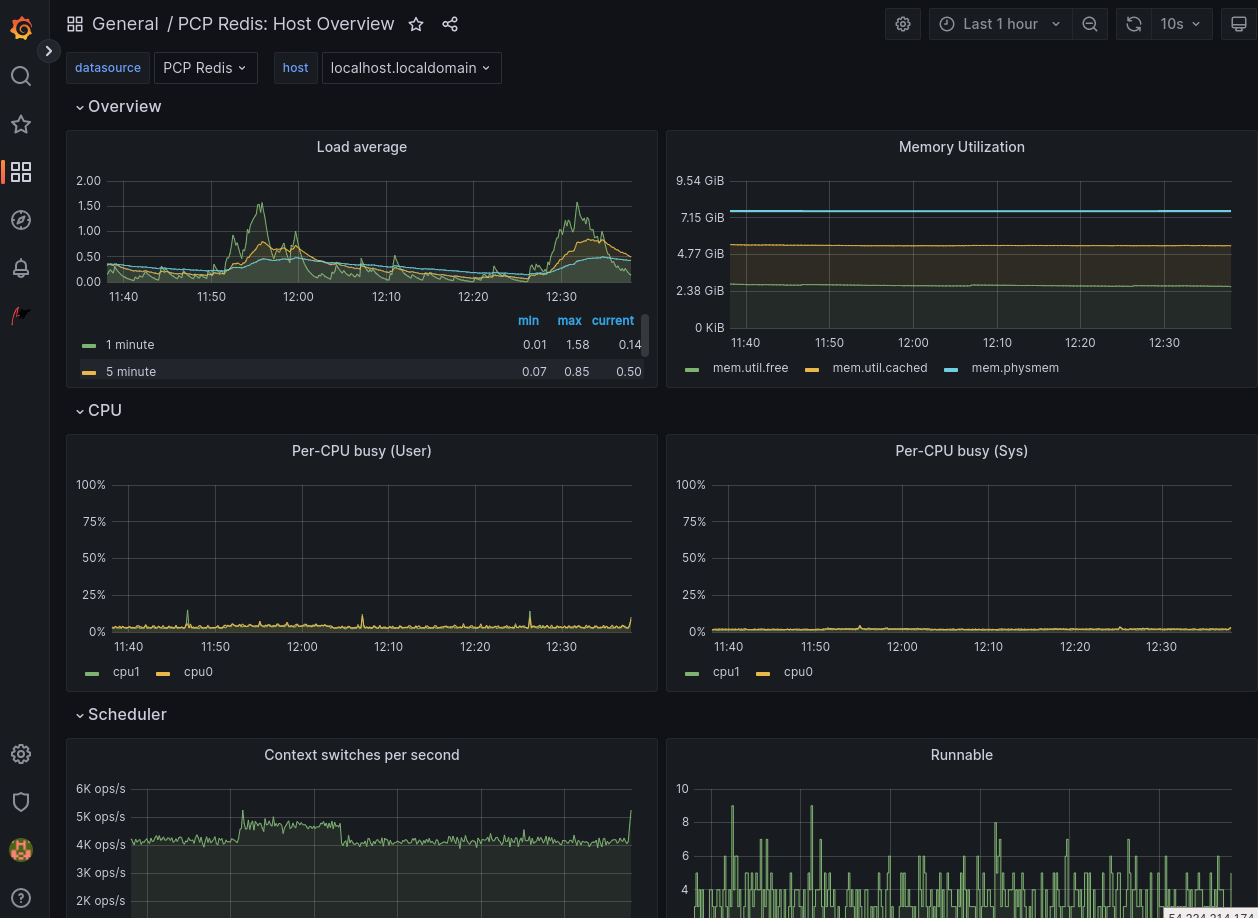
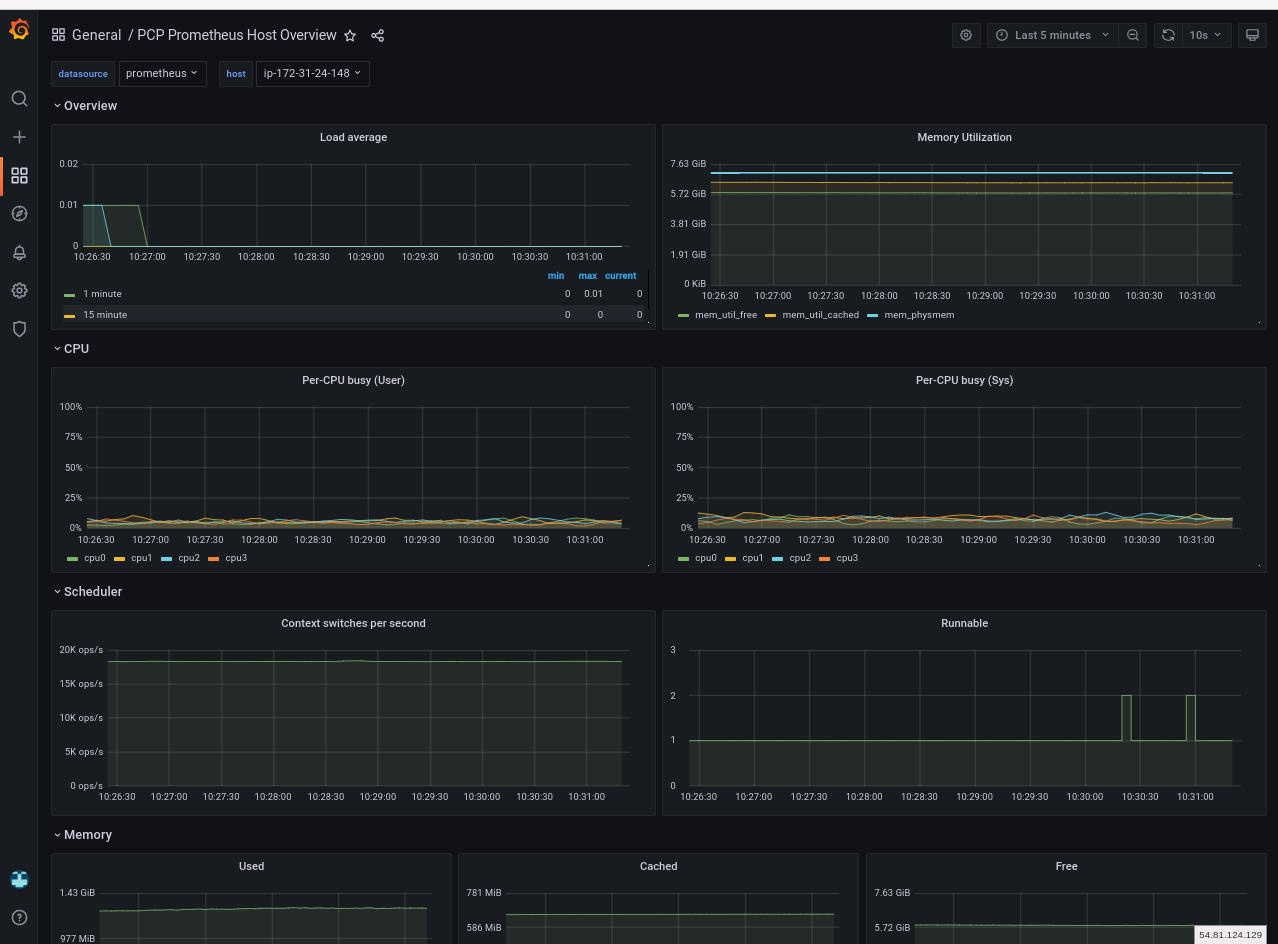
update pcp docs

diff --git a/PCP_edge_ocp/README.md b/PCP_edge_ocp/README.md
@@ -1,0 +1,54 @@
+## Setting up Performance Co-Pilot in RHEL Device Edge
+
+### Screenshots
+
+Data from RHEL Device Edge and [Performance Co-Pilot](https://pcp.io/) (PCP)
+
+![PCP Prometheus: Host Overview Dashboard](../images/PCP.png)
+
+
+### Performance Co-Pilot in RHEL Device Edge
+
+To launch a RHEL edge machine [this blog](https://cloud.redhat.com/blog/meet-red-hat-device-edge-with-microshift) was followed.
+The [rhde-microshift.toml](./rhde-microshift.toml) includes the packages required to run
+[Performance Co-Pilot with graphical representation](https://github.com/performancecopilot/grafana-pcp).
+The [Red Hat Customer Portal](https://access.redhat.com/documentation/en-us/red_hat_enterprise_linux/9/html/monitoring_and_managing_system_status_and_performance/setting-up-graphical-representation-of-pcp-metrics_monitoring-and-managing-system-status-and-performance) documentation was used to deploy PCP. PCP data is visualized with Grafana running in OpenShift. An OpenTelemetry Collector pod enables the collection. 
+
+PMCD, PMLogger, and PMProxy are run as systemd services. These services are included in the RHEL device edge machine image.
+Below is the output of the services running.
+
+```bash
+sudo systemctl --type=service --state=running
+----
+pmcd.service             loaded active running Performance Metrics Collector Daemon
+pmie.service             loaded active running Performance Metrics Inference Engine
+pmie_farm.service        loaded active running pmie farm service
+pmlogger.service         loaded active running Performance Metrics Archive Logger
+pmlogger_farm.service    loaded active running pmlogger farm service
+pmproxy.service          loaded active running Proxy for Performance Metrics Collector Daemon
+---
+```
+
+On the edge device, an OpenTelemetryCollector pod scrapes PCP metrics and pushes the data to OpenShift.
+Below is the `podman` command to run the collector pod.
+
+**TODO:** optimize for least-privilege.
+
+Refer to [infra-otel-config.yaml](./infra-otel-config.yaml) for the opentelemetry collector configuration.
+
+```bash
+sudo podman run --rm -d --name otelcol-host \
+--security-opt label=disable  \
+--user=0   \
+--cap-add SYS_ADMIN \
+--tmpfs /tmp --tmpfs /run  \
+-v /var/log/:/var/log \
+-v /sys/fs/cgroup:/sys/fs/cgroup:ro \
+-v $(pwd)/otc/ca.crt:/conf/ca/ca.crt:z \
+-v $(pwd)/infra-otel-config.yaml:/etc/otelcol-contrib/config.yaml:z \
+-v $(pwd)/otc:/otc:z \
+--net=host \
+quay.io/sallyom/ubi8-otelcolcontrib:latest --config=file:/etc/otelcol-contrib/config.yaml
+```
+
+**TODO:** Document OpenShift monitoring stack
